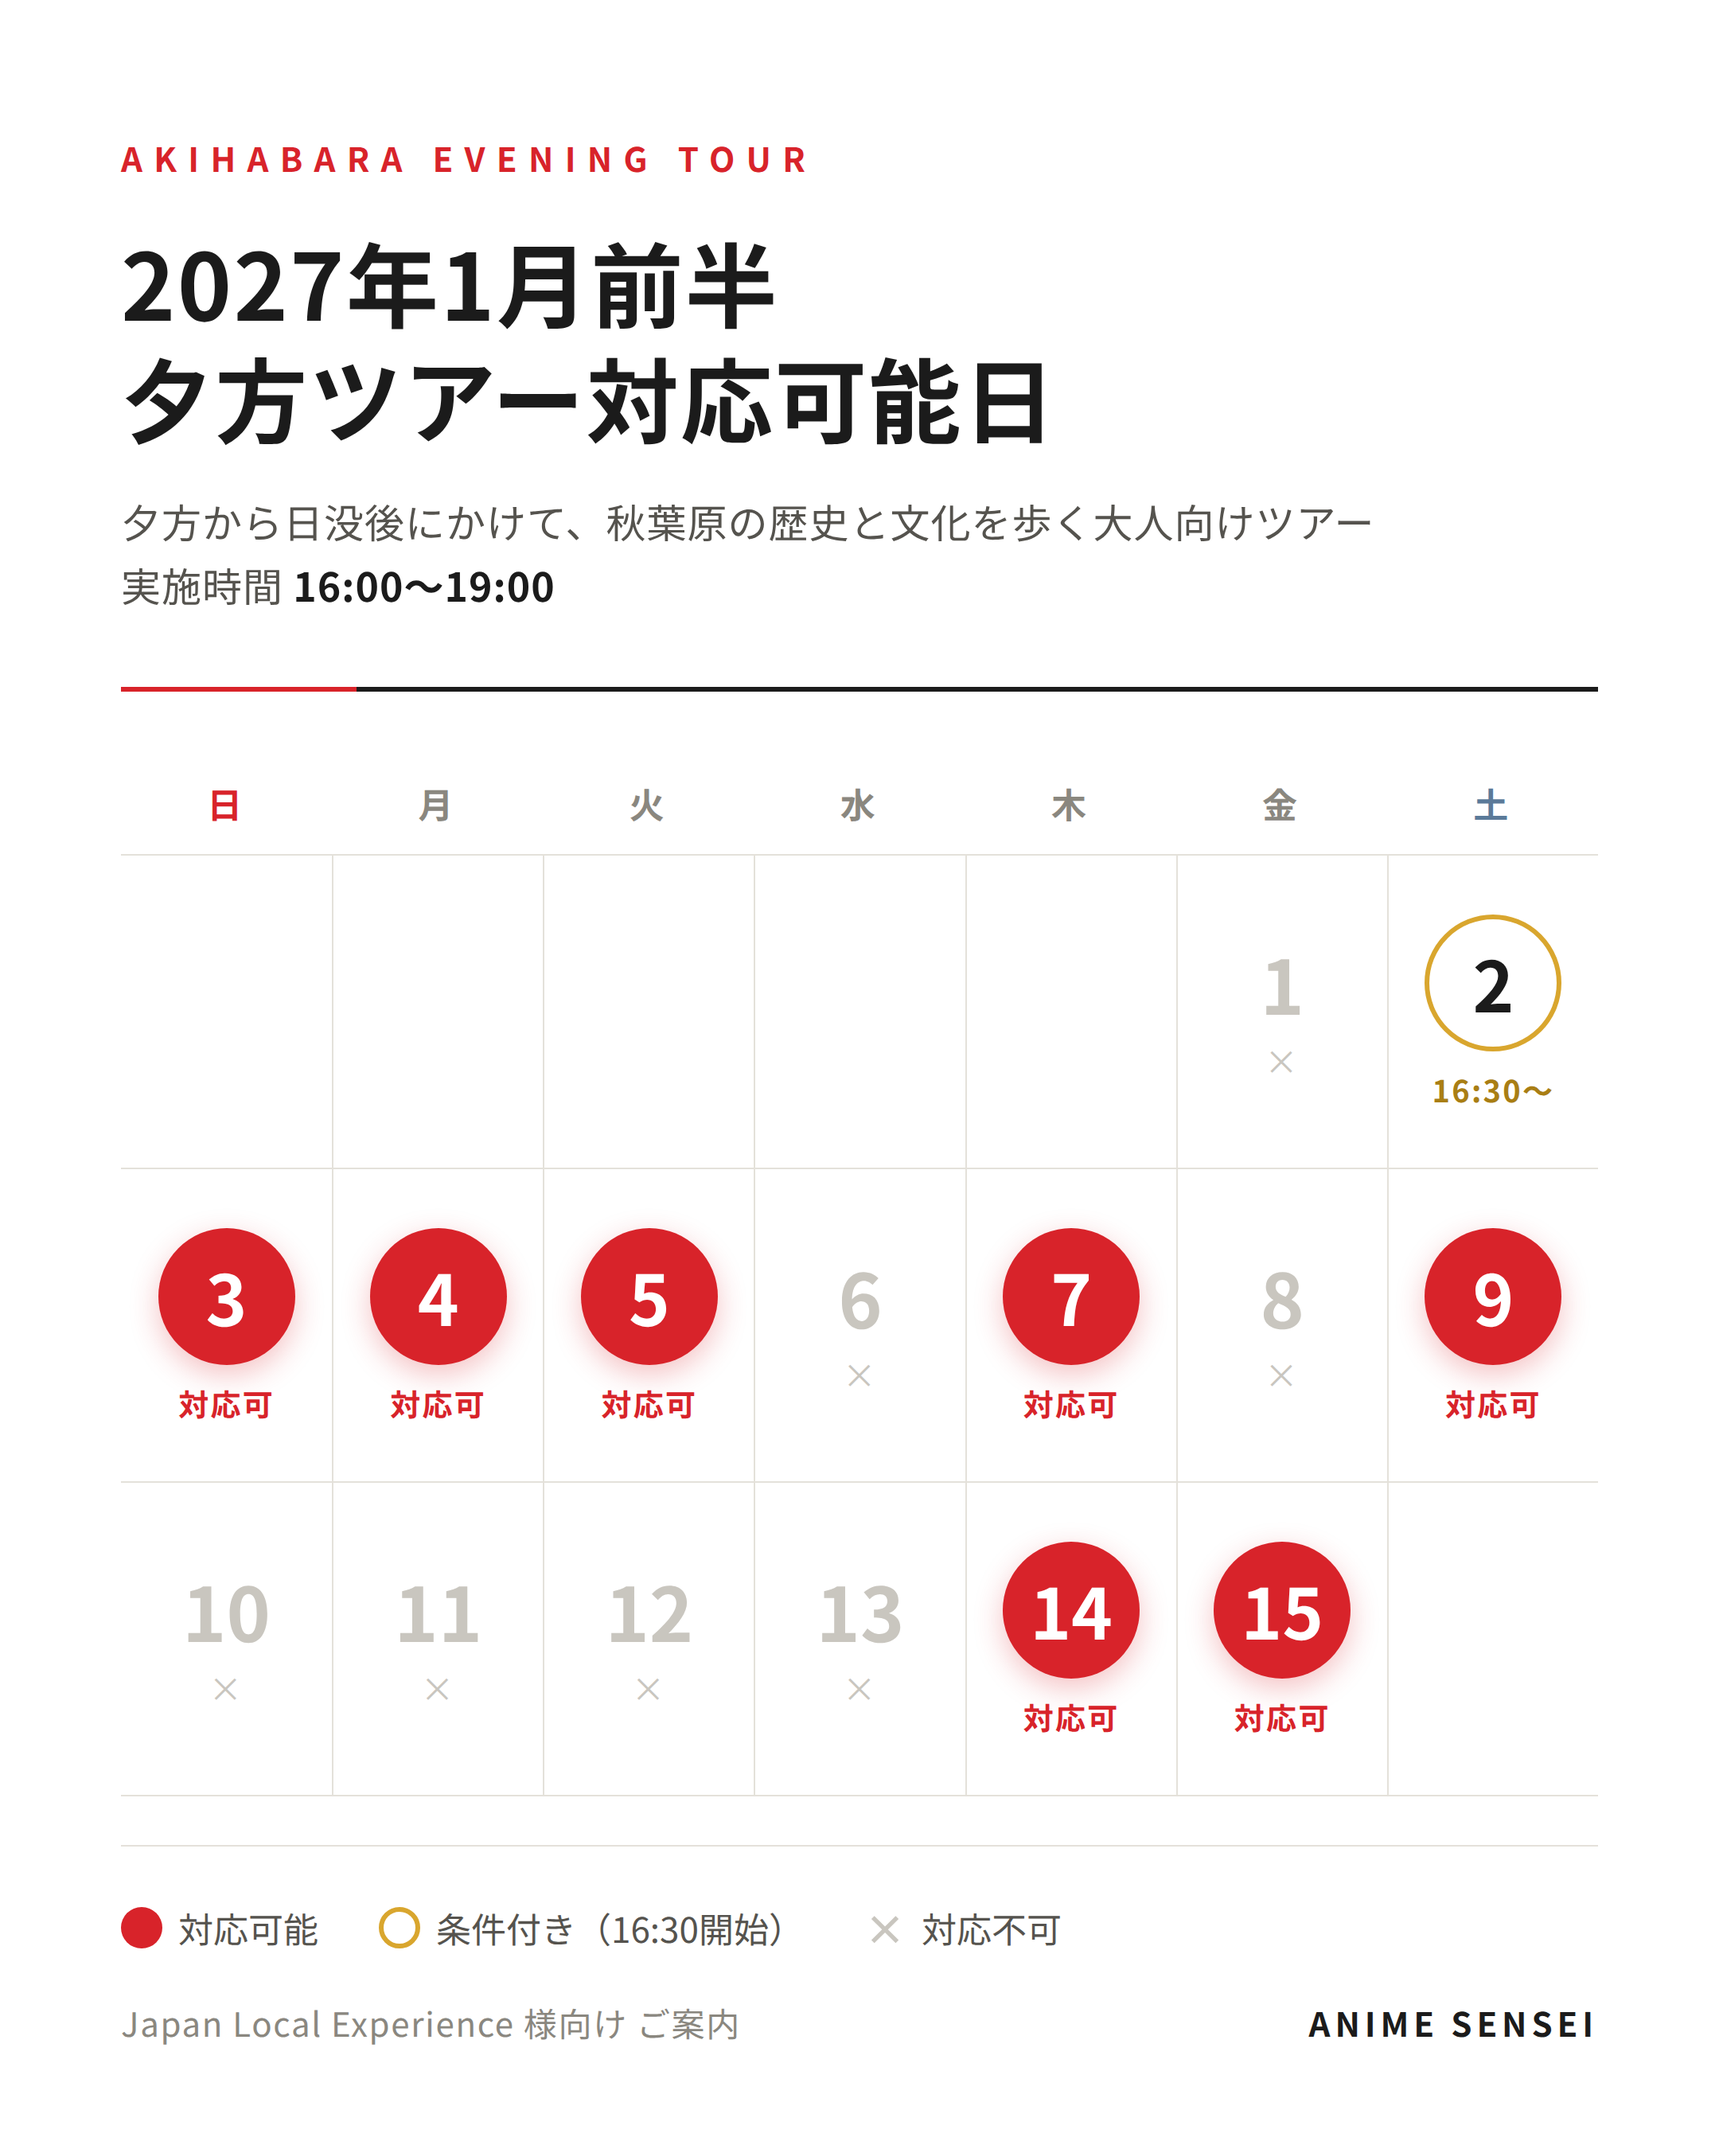
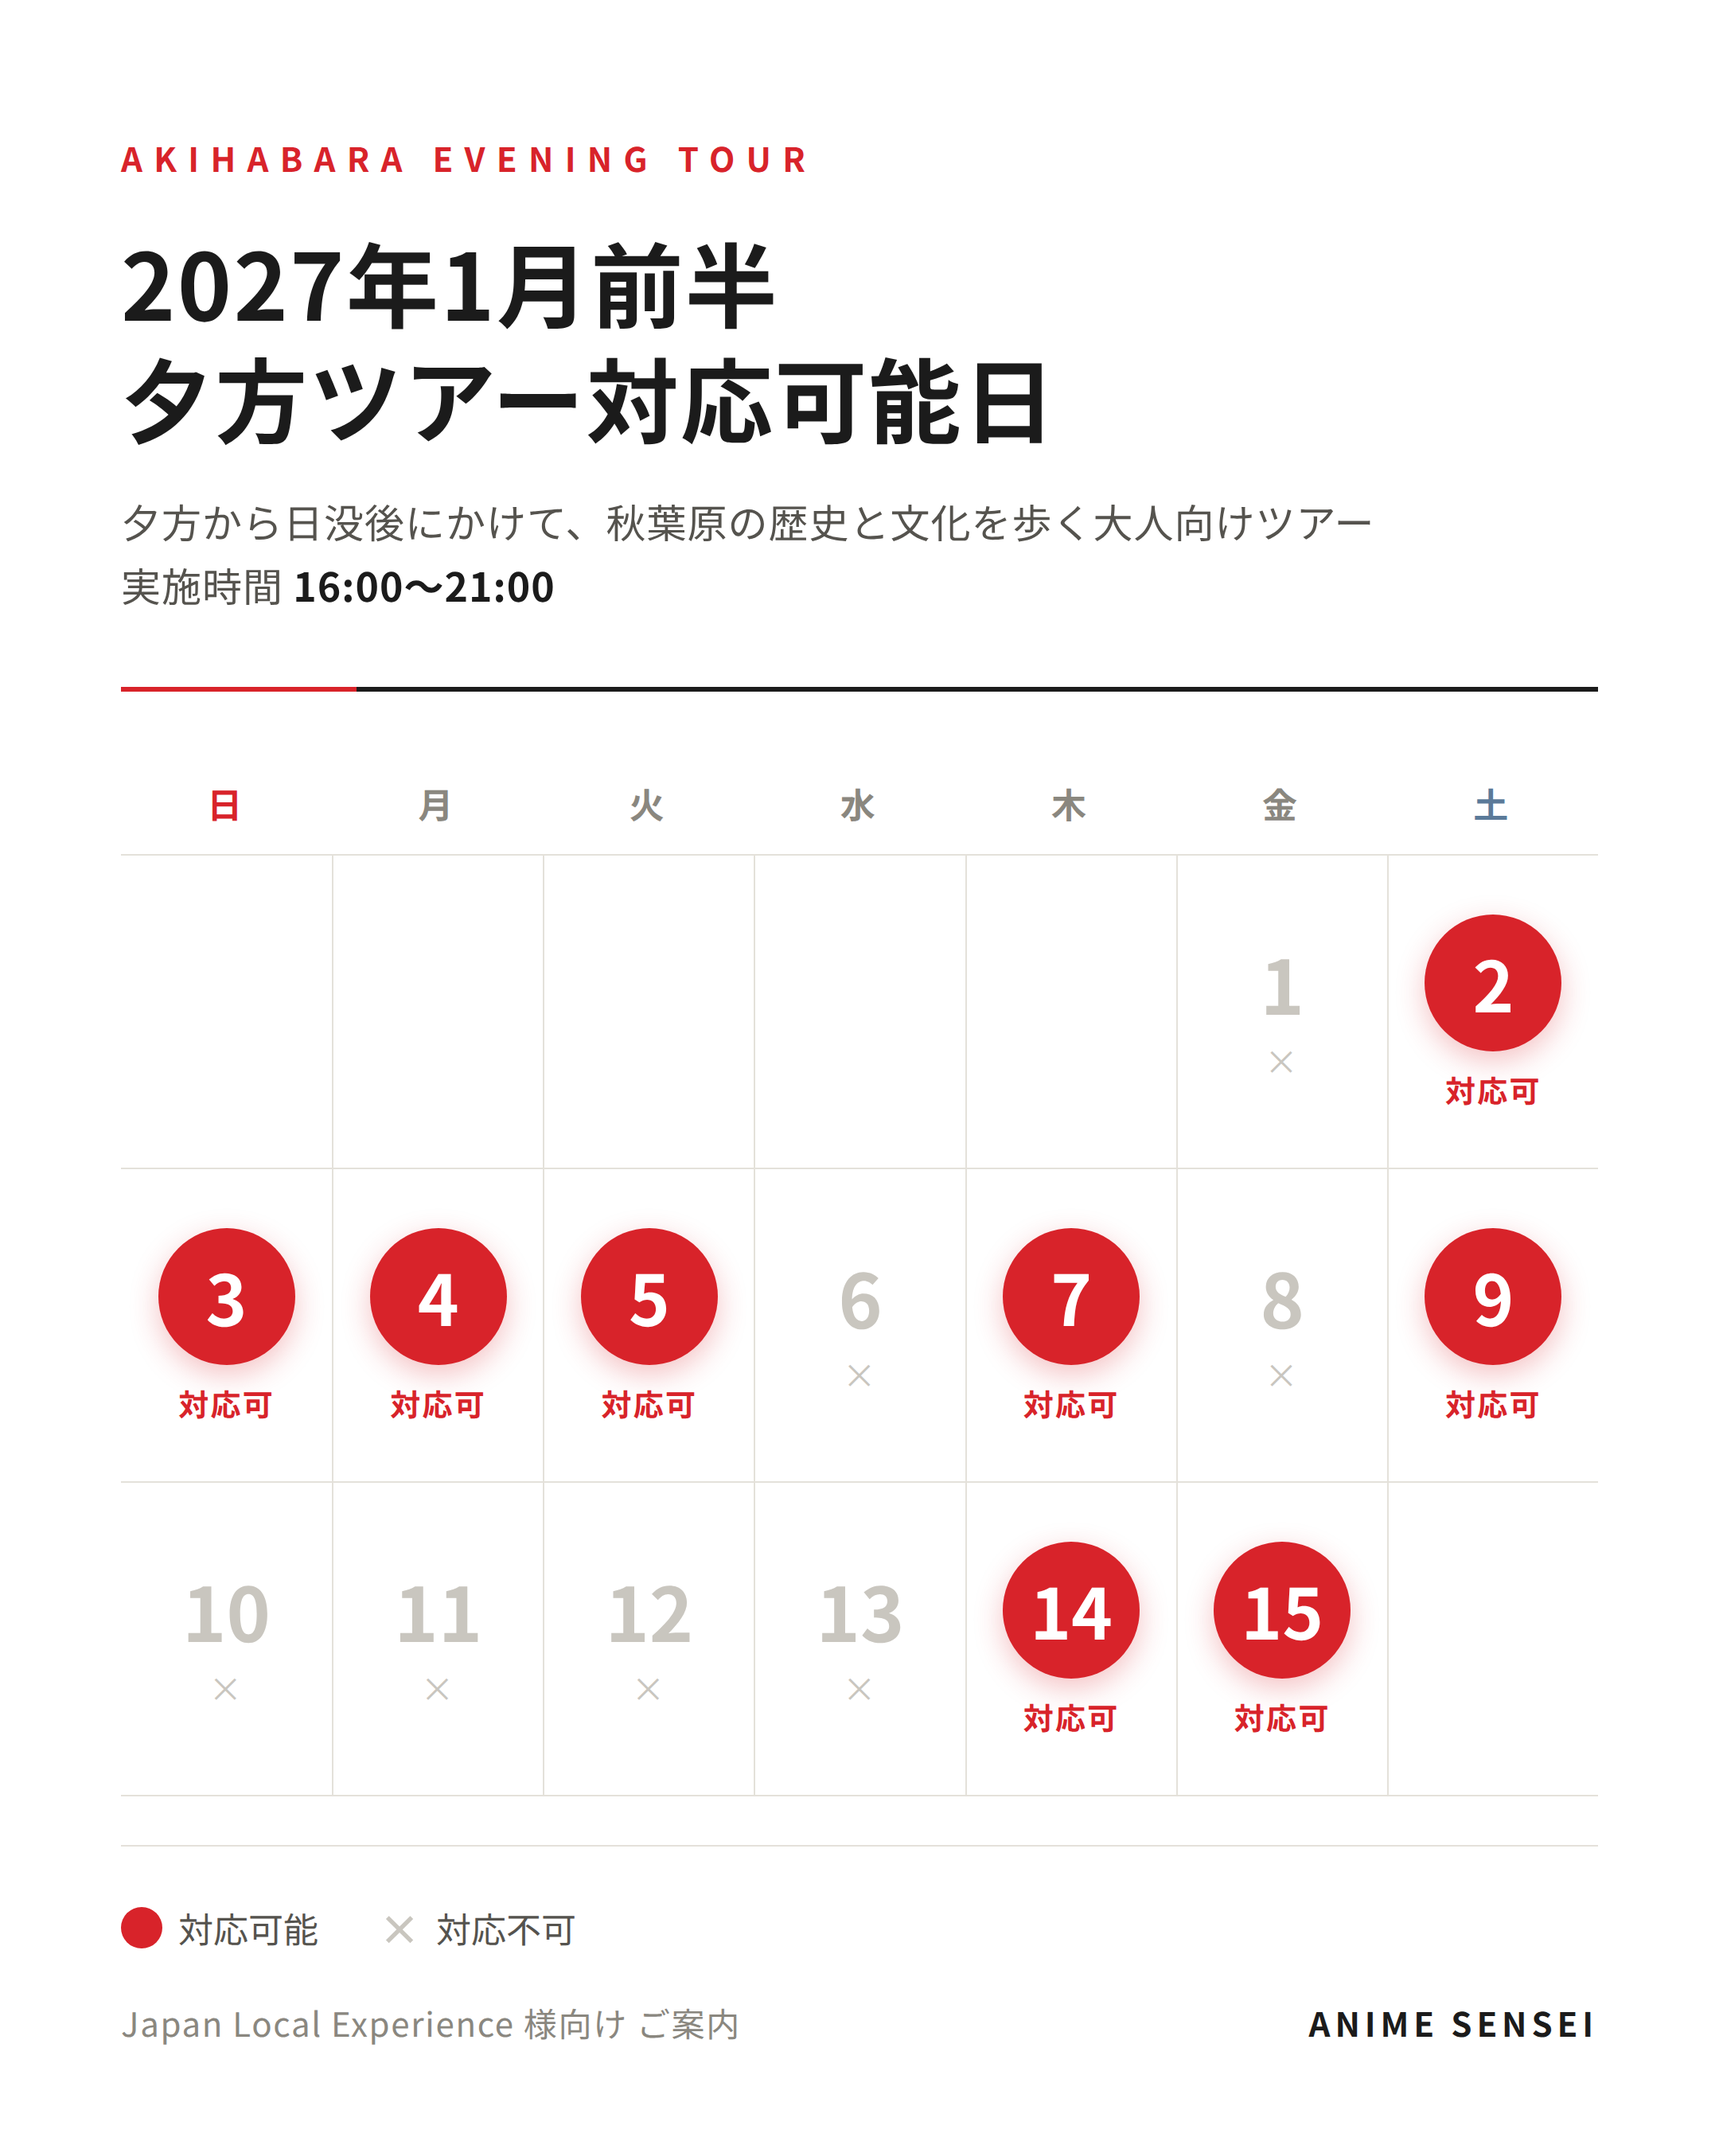
Tour time 16:00-21:00; Jan 2 fully available (8 days)

diff --git a/index.html b/index.html
@@ -36,7 +36,7 @@
   <header>
     <div class="kicker">FOR KIOKA-SAN / JAPAN LOCAL EXPERIENCE</div>
     <h1>1月前半・夕方ツアー対応可能日<br>シェア用カレンダー画像 5案</h1>
-    <p>LINEでそのまま送れる画像です。各案とも内容は同一（対応可：3・4・5・7・9・14・15日／条件付き：2日／不可：1・6・8・10・11・12・13日、時間は16:00〜19:00）。</p>
+    <p>LINEでそのまま送れる画像です。各案とも内容は同一（対応可：2・3・4・5・7・9・14・15日／不可：1・6・8・10・11・12・13日、時間は16:00〜21:00）。</p>
   </header>
 
   <section>
@@ -62,7 +62,7 @@
 
   <section>
     <div class="no"><span class="n">4</span><span class="t">タイポグラフィ型</span></div>
-    <p class="cap">「1月前半、夕方の7日間。」を主役にしたミニマルなポスター型。文字だけで構成した一番引き算の効いた案。</p>
+    <p class="cap">「1月前半、夕方の8日間。」を主役にしたミニマルなポスター型。文字だけで構成した一番引き算の効いた案。</p>
     <figure><img src="cal-v4.png" alt="案4 タイポグラフィ型"></figure>
     <p class="size">1080 × 1350（表示は2倍解像度 2160 × 2700）</p>
   </section>
